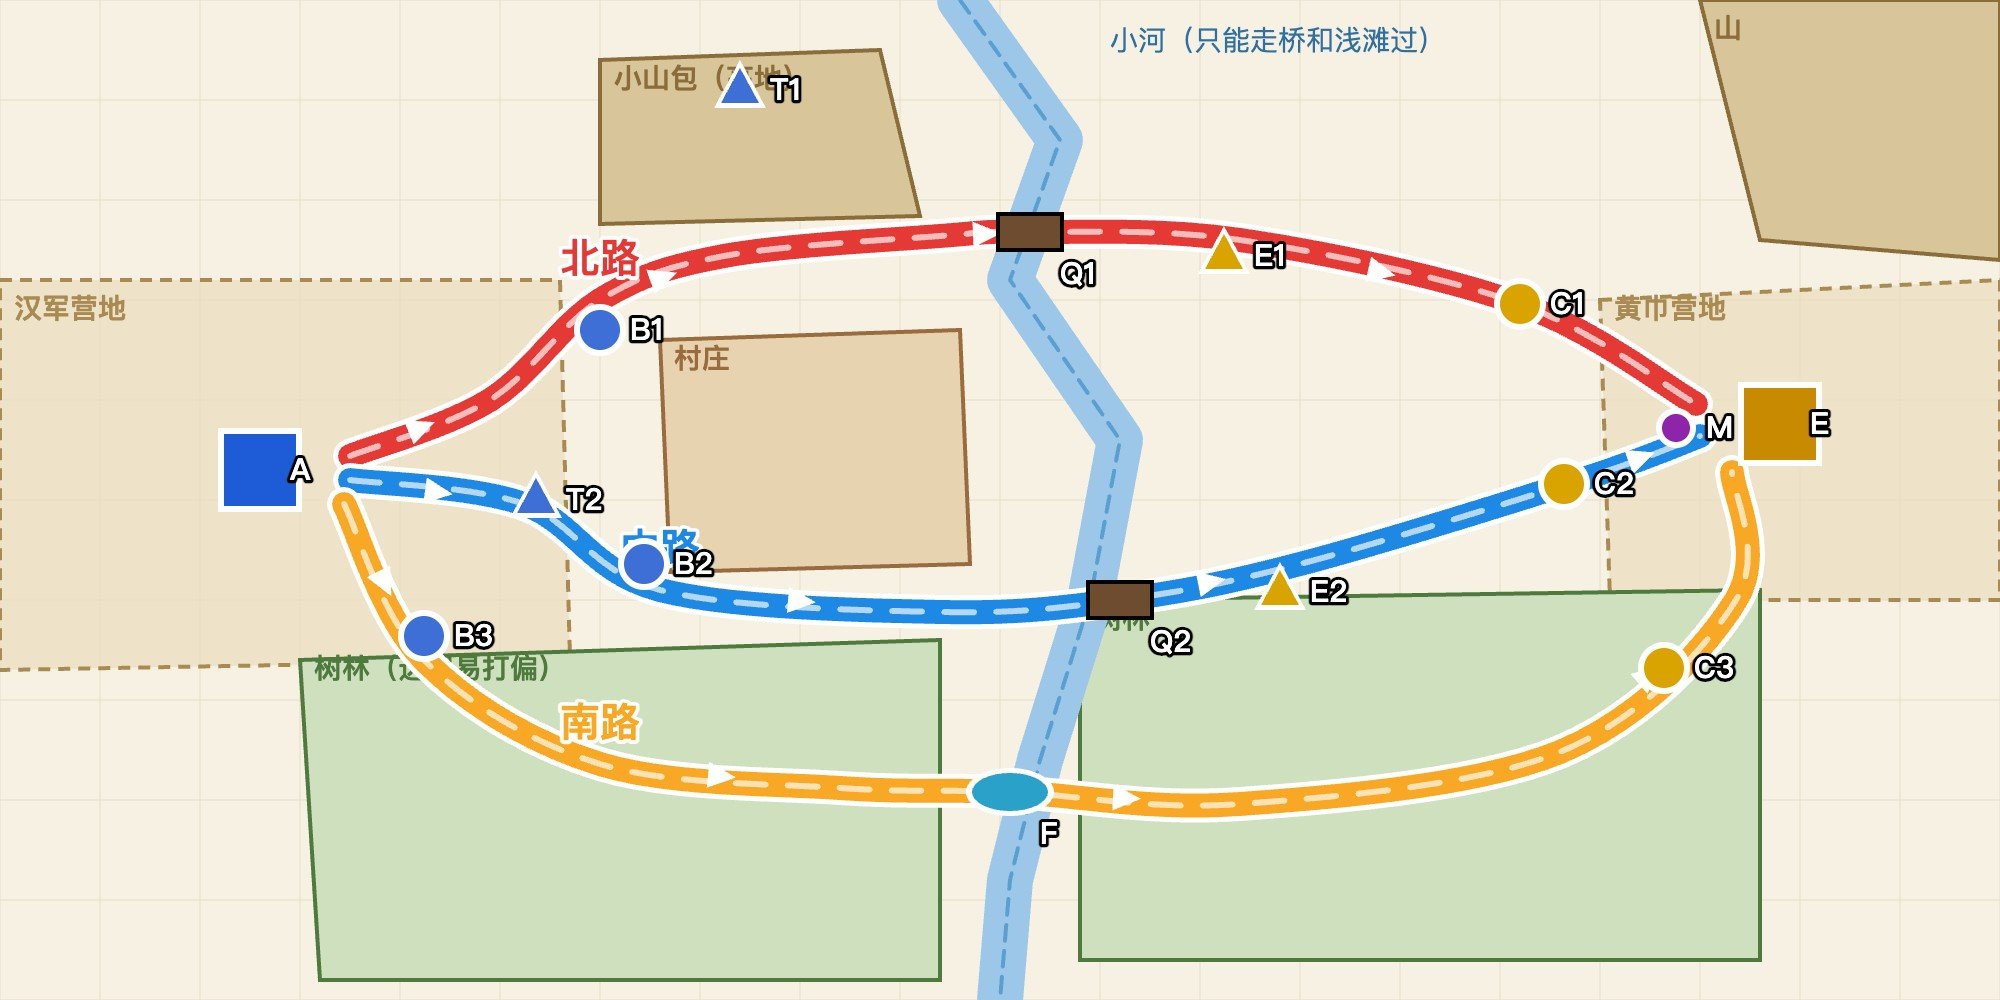
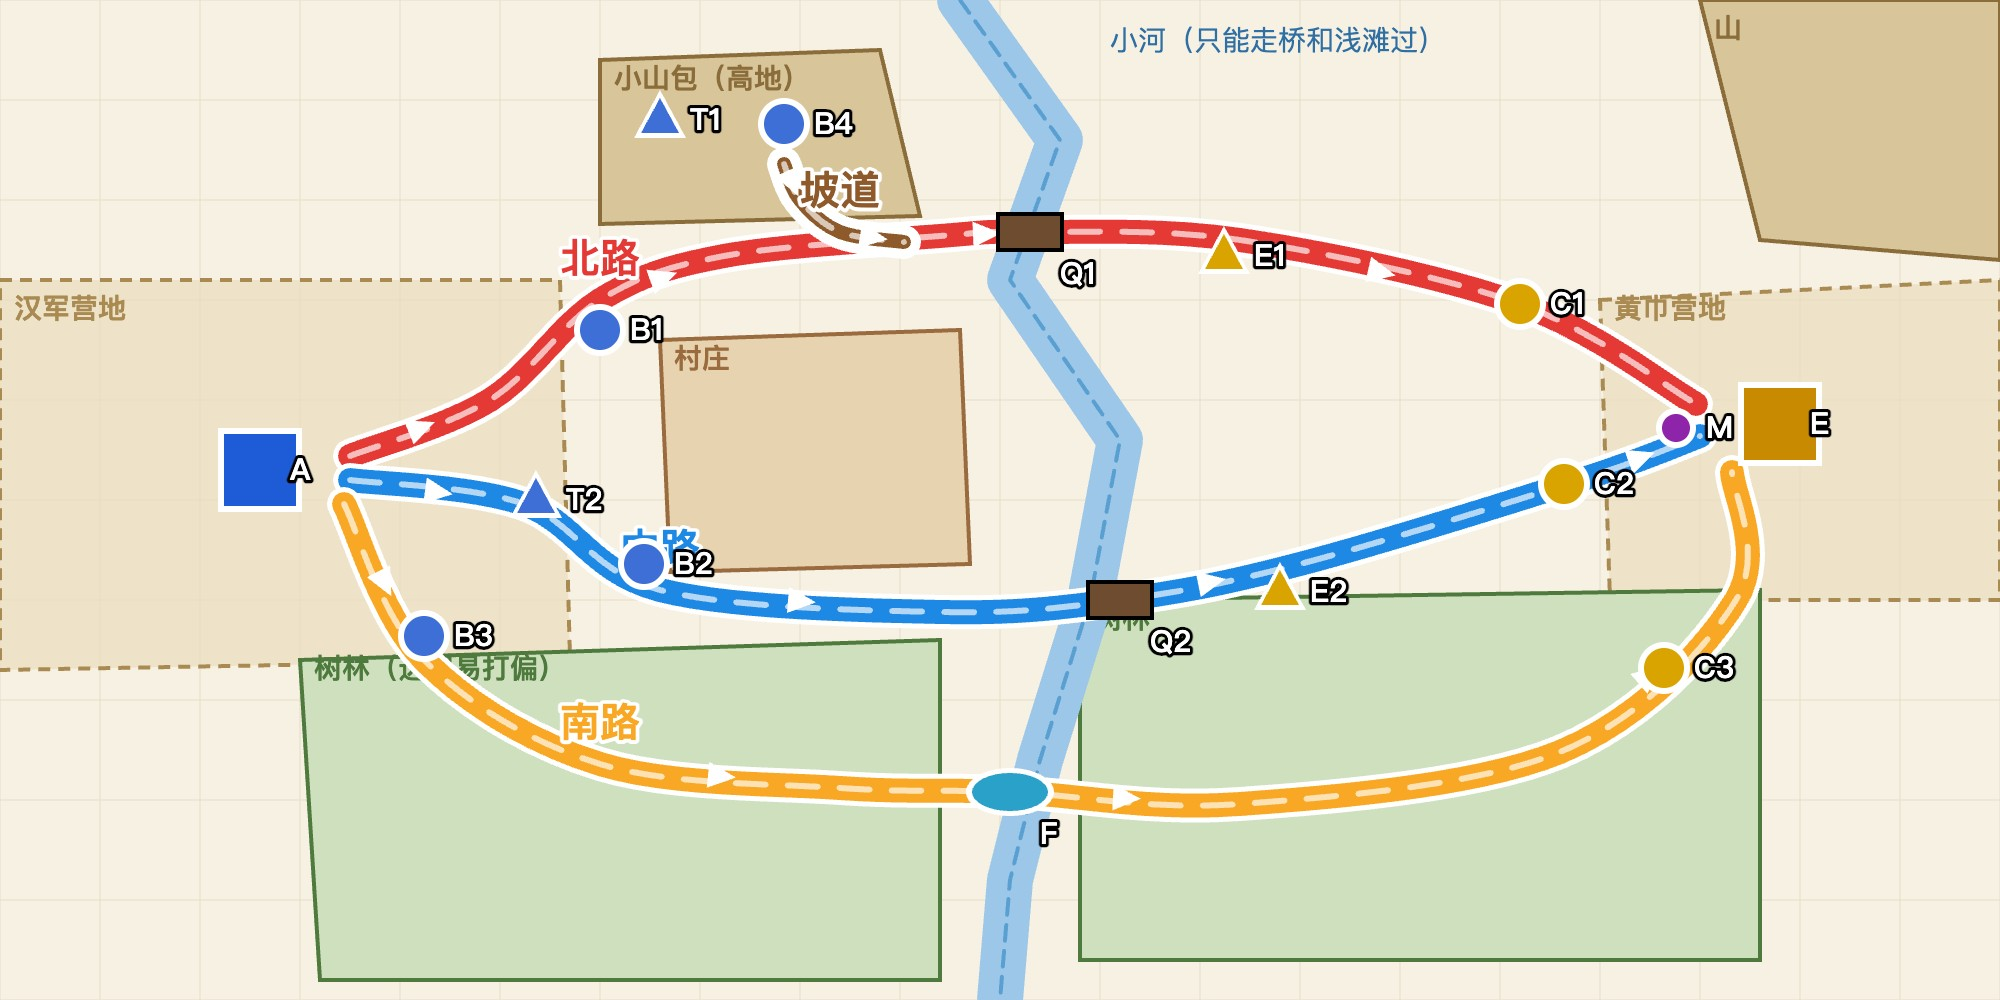
涿郡规划：小山包顶加兵营空地 B4 和下山坡道

Changed region(s): [[0.31, 0.062, 0.465, 0.279]]

diff --git a/docs/涿郡路线规划.html b/docs/涿郡路线规划.html
@@ -9,6 +9,7 @@ const K=2;
 const ROUTES={
  北路:{c:'#e53935',p:[[175,228],[245,200],[300,150],[362,128],[470,118],[515,116],[620,120],[760,152],[848,202]],note:'开阔平原，最长；骑兵最快；经过小山包脚下'},
  中路:{c:'#1e88e5',p:[[175,240],[262,252],[330,295],[470,306],[560,300],[650,282],[790,240],[850,218]],note:'最短；沿村庄南边；中桥窄，会挤'},
+ 坡道:{c:'#8e5a2b',p:[[392,82],[400,100],[420,116],[452,121]],note:'山包兵营 B4 出来的兵顺着坡道下山，接上北路；上坡移速 -25%'},
  南路:{c:'#f9a825',p:[[172,252],[212,330],[300,382],[420,394],[505,396],[620,402],[780,376],[868,300],[866,236]],note:'穿两片树林，浅滩涉水；最慢；树林里远程易打偏'},
 };
 // 关键点位：[编号, 名称, x, y, 类型, 说明]
@@ -17,7 +18,8 @@ const PTS=[
  ['B1','汉军兵营·北',300,165,'camp','北路起点'],
  ['B2','汉军兵营·中',322,282,'camp','中路起点'],
  ['B3','汉军兵营·南',212,318,'camp','南路起点'],
- ['T1','汉军箭塔·山包',370,45,'tower','小山包顶，高地：射程 +30%，覆盖北路'],
+ ['T1','汉军箭塔·山包',330,60,'tower','小山包顶西侧，高地：射程 +30%，覆盖北路'],
+ ['B4','汉军兵营·山包',392,62,'camp','小山包顶的空地（高地）：出的兵走坡道下到北路；高地上的弓兵射程更远'],
  ['T2','汉军箭塔·村口',268,250,'tower','三路分岔口，守家'],
  ['Q1','北桥（宽）',515,116,'bridge','北路过河；宽，可 3 人并排'],
  ['Q2','中桥（窄）',560,300,'bridge','中路过河；窄，只能 2 人并排'],
@@ -54,7 +56,7 @@ function curve(g,p){g.beginPath();g.moveTo(...p[0]);for(let i=0;i<p.length-1;i++
  const g2=g;
  for(const[n,r]of Object.entries(ROUTES)){const p=r.p.map(([x,y])=>[x*K,y*K]);
   curve(g,p);g.strokeStyle='#fff';g.lineWidth=34;g.lineCap='round';g.lineJoin='round';g.stroke();
-  curve(g,p);g.strokeStyle=r.c;g.lineWidth=24;g.stroke();
+  curve(g,p);g.strokeStyle=r.c;g.lineWidth=n==='坡道'?14:24;g.stroke();
   curve(g,p);g.setLineDash([30,22]);g.strokeStyle='#ffffffaa';g.lineWidth=6;g.stroke();g.setLineDash([]);
   // 方向箭头
   for(let i=1;i<p.length;i+=2){const a=Math.atan2(p[i][1]-p[i-1][1],p[i][0]-p[i-1][0]);g.save();g.translate((p[i][0]+p[i-1][0])/2,(p[i][1]+p[i-1][1])/2);g.rotate(a);
